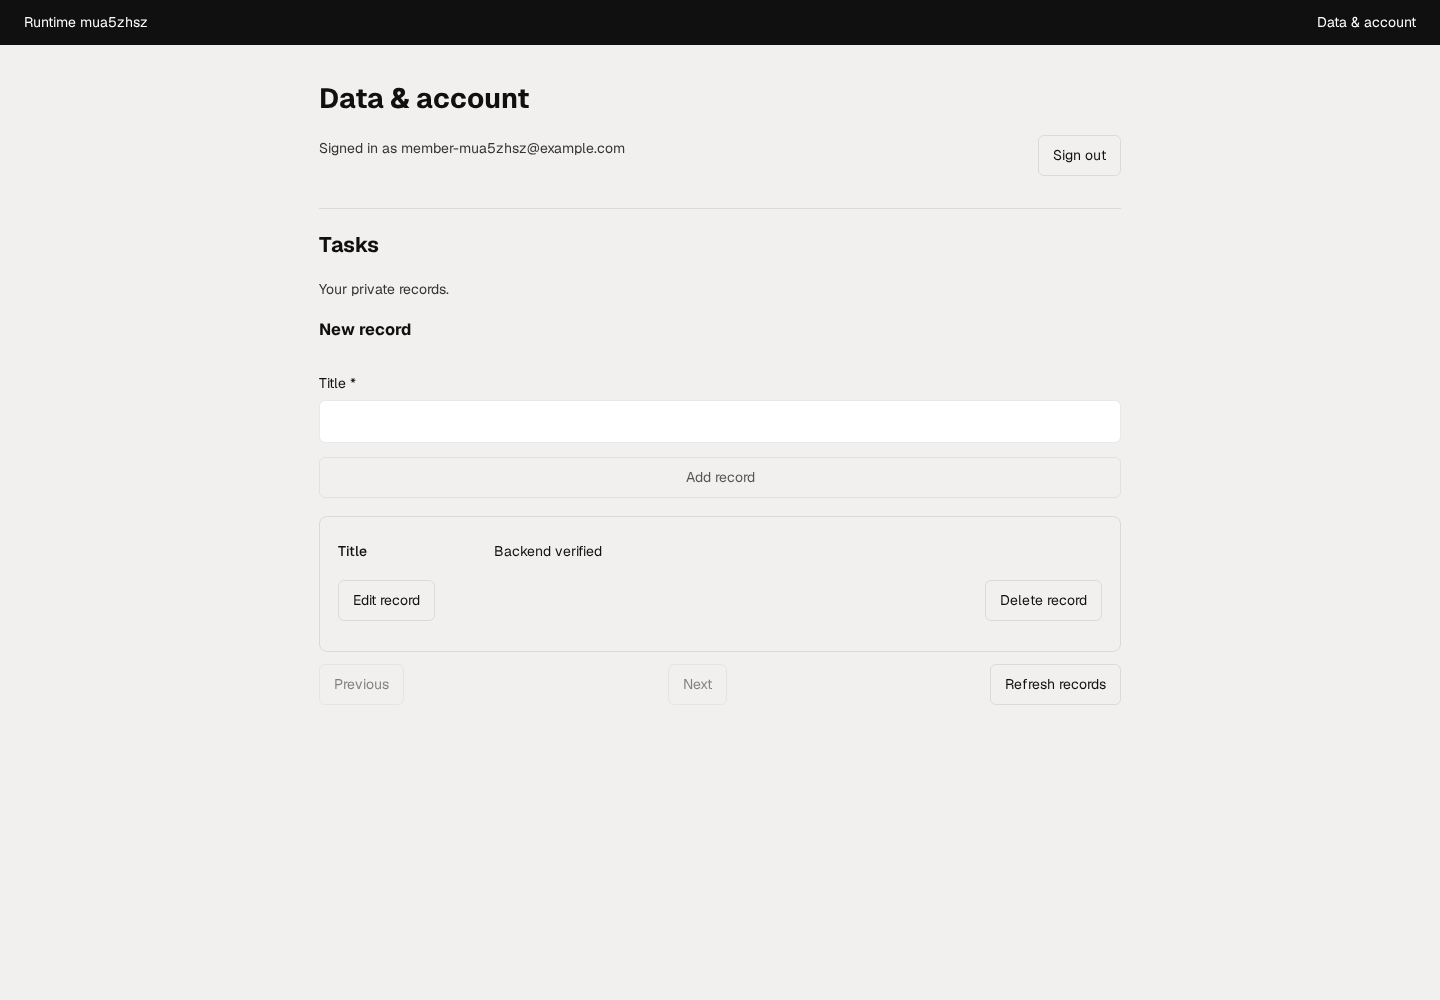
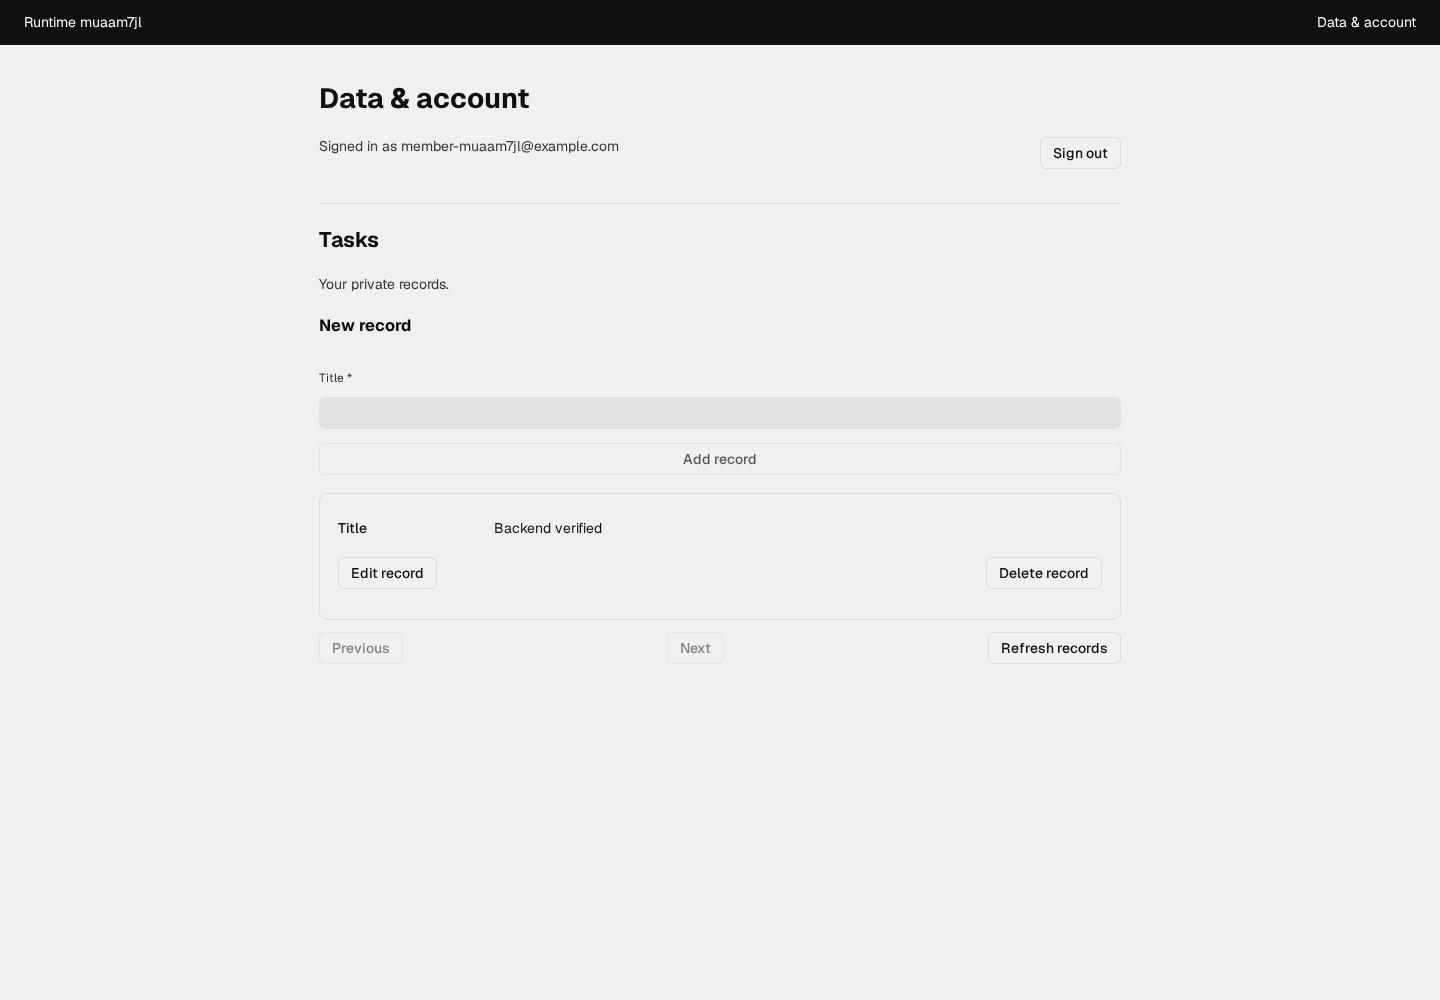
Apply Relume's form system to Settings, dialogs and panels
Section cards sit on the ground colour with a hairline, labels are 12px
over filled 32px fields, status and in-use markers become mono chips, the
selected provider and model take the accent tint, and dialogs get a 12px
radius with 20px titles.

diff --git a/src/style.css b/src/style.css
@@ -3057,3 +3057,181 @@ button {
     inset: -24px 0;
   }
 }
+
+/* Form system, after Relume's site settings: section cards on the ground colour,
+   12px labels over filled 32px fields, mono chips, 20px page titles. */
+.settings-block {
+  border: 1px solid var(--line);
+  border-radius: 8px;
+  background: rgba(241, 240, 238, 0.9);
+  padding: 32px;
+}
+.settings-eyebrow {
+  font-family: var(--mono);
+  font-size: 12px;
+  font-weight: 500;
+  letter-spacing: 0;
+  text-transform: uppercase;
+  color: var(--ink);
+}
+.settings-block-head h2 {
+  font-size: 20px;
+  font-weight: 500;
+  line-height: 28px;
+  letter-spacing: -0.02em;
+}
+.settings-block-head p {
+  font-size: 14px;
+  color: var(--ink-2);
+}
+.settings-state,
+.provider-name em,
+.service-state {
+  font-family: var(--mono);
+  font-size: 11px;
+  font-weight: 500;
+  line-height: 18px;
+  letter-spacing: -0.02em;
+  text-transform: uppercase;
+}
+.settings-state {
+  border: 0;
+  border-radius: 4px;
+  padding: 1px 6px;
+  background: var(--surface);
+  color: var(--ink);
+}
+.settings-state.on {
+  background: #d5f89d;
+}
+.provider-name em {
+  background: #d5f89d;
+  color: var(--ink);
+  padding: 1px 6px;
+}
+.provider-card,
+.service-card {
+  border: 1px solid var(--line);
+  border-radius: 8px;
+  background: transparent;
+  box-shadow: none;
+}
+.provider-card:hover {
+  background: var(--surface);
+}
+.provider-card.selected {
+  border-color: transparent;
+  background: #ffd7ff;
+  box-shadow: none;
+}
+.provider-name,
+.service-name {
+  font-size: 14px;
+  font-weight: 500;
+}
+.provider-desc,
+.service-card p {
+  font-size: 14px;
+  color: var(--ink-2);
+}
+.provider-meta,
+.field-note {
+  font-size: 12px;
+  color: var(--ink-3);
+}
+.settings-field label,
+.modal label,
+.inspector label,
+.style-guide label,
+.backend-form label,
+.backend-panel > label {
+  font-size: 12px;
+  line-height: 18px;
+  font-weight: 400;
+  color: var(--ink-2);
+}
+.field-row input,
+.modal label input,
+.modal label select,
+.modal label textarea,
+.inspector label input,
+.inspector label select,
+.inspector label textarea,
+.backend-form label input:not([type="checkbox"]),
+.backend-form label select,
+.backend-panel > label input {
+  margin-top: 4px;
+  min-height: 32px;
+  padding: 5px 8px;
+  border: 1px solid transparent;
+  border-radius: var(--radius);
+  background: var(--surface);
+  font-size: 14px;
+  line-height: 20px;
+  color: var(--ink);
+}
+.field-row input {
+  margin-top: 0;
+}
+.field-row input:focus-visible,
+.modal label :is(input, select, textarea):focus,
+.inspector label :is(input, select, textarea):focus,
+.backend-form label :is(input, select):focus,
+.backend-panel > label input:focus {
+  border-color: var(--accent);
+  background: var(--bg-raised);
+  outline: none;
+  box-shadow: none;
+}
+.model-list {
+  border: 1px solid var(--line);
+  border-radius: 8px;
+  background: transparent;
+}
+.model-list li button.selected {
+  background: #ffd7ff;
+  color: var(--ink);
+}
+.model-list li button.selected em {
+  color: var(--ink-2);
+}
+.backend-panel {
+  border-radius: 12px;
+  padding: 24px;
+  box-shadow: 0 0 0 1px var(--line), 0 24px 80px rgba(16, 16, 16, 0.2);
+}
+.backend-panel h2 {
+  font-size: 20px;
+  font-weight: 500;
+  line-height: 28px;
+  letter-spacing: -0.02em;
+}
+.backend-panel h3 {
+  font-size: 14px;
+  font-weight: 500;
+}
+.backend-panel p {
+  font-size: 14px;
+}
+.backend-panel button,
+.backend-page button {
+  min-height: 32px;
+  padding: 5px 12px;
+  font-size: 14px;
+  font-weight: 500;
+  line-height: 20px;
+}
+.modal {
+  border-radius: 12px;
+  box-shadow: 0 0 0 1px var(--line), 0 24px 80px rgba(16, 16, 16, 0.2);
+}
+.modal h2 {
+  font-size: 20px;
+  font-weight: 500;
+  line-height: 28px;
+}
+.modal-symbol {
+  padding: 8px;
+  border-radius: 8px;
+  background: #ffd7ff;
+}

diff --git a/CLAUDE.md b/CLAUDE.md
@@ -27,7 +27,7 @@ write it.
 | _(claude subagent J: studio-workshop)_ | `public/templates/studio-workshop/**`, `vendor/templates/studio-workshop/**`, `shared/source-templates-studio-workshop.json`, `tests/browser/studio-workshop.spec.ts`, one import + spread line in `shared/source-templates.mjs`, this row | **done (Fettle), 4 of 4 browser tests green.** Hand drawn workshop and class programme adapted from PaperCSS (ISC, pinned): its irregular border radii and offset shadow rewritten as tokens, its remote Google Fonts import deliberately dropped. Rough.js (MIT) draws the rules, frames, callout, tools, floor plan and chart ONCE at build time into seeded static SVG; the eleven people are Open Peeps (CC0) rendered from react-peeps (MIT) at build time. Bricolage Grotesque (OFL) bundled locally. 6 pages, programme filtered by level and evening together with a live count of sessions and benches free. No photography, no remote requests. |
 | _(claude subagent K: cloudcannon collection)_ | `public/templates/cloudcannon-*/**`, `vendor/templates/cloudcannon-*/**`, `shared/source-templates-cloudcannon.json`, `tests/browser/cloudcannon-collection.spec.ts`, one import + spread line in `shared/source-templates.mjs`, a tab plus its context paragraph in `src/SourceTemplateCatalogue.tsx`, a section at the end of `docs/SOURCE-TEMPLATES.md`, this row | **done, 5 of 5 browser tests green.** Imported the CloudCannon MIT line as a whole collection (new "Publisher library" tab): Jetstream and Sendit (Astro) plus Hydra, Urban, Frisco, Justice, Treat, Edition, Cause and Author (Jekyll, built with a local GEM_HOME since only system Ruby 2.6 exists). Aperture rejected, it is a photography grid. **Every bundled photograph is deleted, not carried through**: the Unsplash Licence bars redistributing photos as a collection, so image slots hold placeholder artwork drawn in code at the original pixel sizes. Also stripped Google Fonts, CDN jQuery, Analytics, Disqus, Maps, Donorbox, Mailchimp, Vimeo, YouTube and CodePen; forms blocked; demo note on every page. Note for the continuation session: I added one tab entry and one paragraph to `SourceTemplateCatalogue.tsx`, nothing else in that file. |
 | _(claude subagent L: studio-explain)_ | `public/templates/studio-explain/**`, `vendor/templates/studio-explain/**`, `shared/source-templates-studio-explain.json`, `tests/browser/studio-explain.spec.ts`, one import + spread line in `shared/source-templates.mjs`, this row | **done (Threshold), 8 of 8 browser tests green.** Explorable explanation adapted from ncase/trust (CC0, commit 6ec45d73: chaptered scroll, one widget per step, plus two of its CC0 drawings reused as the queue, no audio because its effects are mixed licence) and roadtolarissa (MIT, commit 3e28b8aa: newsprint ground, 750px measure, charts drawn as SVG from the data, hand drawn annotation arrow, scroll driven chart state). Five pages. Two hand written SVG + plain JS figures, no chart library: a load slider over a drawn curve and a 12 slot morning you step through, both keyboard operable, both announcing state, both with a visible summary sentence. Every number lives in `model.js`, which `tools/build-pages.mjs` also reads, so the drawings, readouts and the numbers written into the prose cannot drift. Reduced motion switches off all scroll driving and both figures still work. Fraunces + Newsreader (OFL) bundled. |
-| _(claude: relume-style UI revamp, 2026-09-20)_ | `src/style.css`, `src/app-workspace.css`, `src/catalogue.css`, the other `src/*.css` app-chrome sheets, `DESIGN.md`, this row, the `<aside className="sidebar">` block and the signed-out account dialog in `src/App.tsx`, `src/AccountForm.tsx` (markup only, no auth logic), the header and tool rail markup in `src/Editor.tsx` | **first pass done 2026-09-20.** App chrome rethemed to tokens measured live from relume.ai (see DESIGN.md): every one-off gray and lilac in these sheets now resolves to a custom property in the `:root` block at the top of `src/style.css`, so restyle through the tokens, not with new hex values. Dashboard, catalogue, settings and editor checked by screenshot; 7 layout specs green. **Sidebar rebuilt 2026-09-20** to the measured Relume `/sites` sidebar (switcher, accent Create project, search bound to the project search, pill nav, one line account footer). `cloud.spec.ts` reads "Server saving enabled" from screen-reader text in that footer, keep it. **Sign in and sign up card rebuilt 2026-09-21** to Relume's login: `AccountForm` is a 300px `auth-card` (fields named by `aria-label`, so the specs' `getByLabel` still works) and the signed-out account dialog is a full page `auth-panel` with a hairline `auth-frame`. Members of published apps keep the dark submit, owners get the accent. **Dashboard header removed and cards rebuilt 2026-09-21** to the measured `/sites` cards: the shared account chip moved to the sidebar footer, project and catalogue cards are a hairline frame around a sunken well holding a white 12px tile, with a 34px footer row. The project preview scales from its container width (`scale: tan(atan2(100cqw, 1000px))`), so do not add fixed `transform: scale()` overrides to `.mini-site`. **Editor chrome rebuilt 2026-09-21** to the measured Relume site editor: 48px bar, icon tabs in a pill, Preview and Site settings as square icon buttons that keep those accessible names, accent Export, a 46px rail of hairline tiles, 281px inspector with tinted active rows. Not yet hand-tuned: backend panels, account and payment dialogs, native template editor. The signed-in Relume app was not inspected (Cloudflare human check on its login) |
+| _(claude: relume-style UI revamp, 2026-09-20)_ | `src/style.css`, `src/app-workspace.css`, `src/catalogue.css`, the other `src/*.css` app-chrome sheets, `DESIGN.md`, this row, the `<aside className="sidebar">` block and the signed-out account dialog in `src/App.tsx`, `src/AccountForm.tsx` (markup only, no auth logic), the header and tool rail markup in `src/Editor.tsx` | **first pass done 2026-09-20.** App chrome rethemed to tokens measured live from relume.ai (see DESIGN.md): every one-off gray and lilac in these sheets now resolves to a custom property in the `:root` block at the top of `src/style.css`, so restyle through the tokens, not with new hex values. Dashboard, catalogue, settings and editor checked by screenshot; 7 layout specs green. **Sidebar rebuilt 2026-09-20** to the measured Relume `/sites` sidebar (switcher, accent Create project, search bound to the project search, pill nav, one line account footer). `cloud.spec.ts` reads "Server saving enabled" from screen-reader text in that footer, keep it. **Sign in and sign up card rebuilt 2026-09-21** to Relume's login: `AccountForm` is a 300px `auth-card` (fields named by `aria-label`, so the specs' `getByLabel` still works) and the signed-out account dialog is a full page `auth-panel` with a hairline `auth-frame`. Members of published apps keep the dark submit, owners get the accent. **Dashboard header removed and cards rebuilt 2026-09-21** to the measured `/sites` cards: the shared account chip moved to the sidebar footer, project and catalogue cards are a hairline frame around a sunken well holding a white 12px tile, with a 34px footer row. The project preview scales from its container width (`scale: tan(atan2(100cqw, 1000px))`), so do not add fixed `transform: scale()` overrides to `.mini-site`. **Editor chrome rebuilt 2026-09-21** to the measured Relume site editor: 48px bar, icon tabs in a pill, Preview and Site settings as square icon buttons that keep those accessible names, accent Export, a 46px rail of hairline tiles, 281px inspector with tinted active rows. **Form system applied 2026-09-21** after Relume's site settings page (block at the end of `src/style.css`): Settings, dialogs, inspector and backend panel share 12px labels over filled 32px fields, ground colour section cards, mono chips and a tinted selected state. Not yet looked at by screenshot: the signed-in backend panel tabs, the payment prompt, the native template editor. The signed-in Relume app was not inspected (Cloudflare human check on its login) |
 | _(codex, paused)_ | everything, historically | stopped mid-typography on 2026-09-17 02:55. If resumed after the limit resets, it auto-continues its goal: read `git log` first |
 
 ## Rules

diff --git a/DESIGN.md b/DESIGN.md
@@ -21,7 +21,7 @@ Measured from the live relume.ai DOM on 2026-09-20 (computed styles and its `:ro
 - Lines: `rgba(27,25,25,.1)` hairline. States: hover `rgba(22,22,22,.08)`, surface `.06`, press `.12`.
 - Accent: #ff00f4, hover #ff29f6, tints #ffcfff and #ff9fff, subtle `rgba(255,223,255,.5)`, text-safe #cf00c0.
 - Controls: 32px high, 6px radius, 14px weight 400 labels. Primary is solid accent with white text, secondary is transparent with a hairline, fields are filled with the surface tint and turn white with an accent border on focus. Composer and dialogs use a 16px radius; tab groups are a #e4e2df pill with a white active segment.
-Sidebar, measured from the signed-in `/sites` page on 2026-09-20 (the owner passed the login's human check in a visible window): 272px wide on `rgba(241,240,238,.9)` with a hairline right edge, 8px section padding, a 40px switcher with an inset hairline and an 8px radius, a #d5f89d 11px/500 chip, a full-width 32px accent create button, a 30px filled search, 32px nav rows at 14px/500 with an 8px radius, 4px apart, selected #ffd7ff, count chips on the surface tint with a 4px radius, and a footer above a hairline holding a 24px initials square, the name and a plan chip. Login card, from `/app/login`: a 348px frame of white hairlines that run past the corners and fade, a 5px white square on each corner, 24px side padding around a 300px column, a 24px/440 heading, 32px filled fields with placeholder labels and an eye toggle, a full-width accent submit and 12px/500 links with a dotted accent underline. Page and cards, from `/sites`: no top bar, main padding 48px 32px 24px, a 20px/500 section title with 12px below it, a three column grid 16px apart. A card is an 8px radius hairline frame with 1px padding on the ground color, a #ecebe9 well with 8px padding and 8px gaps holding white tiles with a 12px radius, then a 34px footer (padding 4px 4px 4px 8px) with a 20px white icon chip, a 14px/500 name, 12px meta in #343434 and 26px icon buttons. Hover only strengthens the border. Editor chrome, from `/app/site/...`: a 48px top bar on `rgba(241,240,238,.9)` with 8px side padding and a hairline below, laid out as three columns so the tabs sit dead centre; a 32px back button, a 14px/500 name; tabs in a #e4e2df pill with 26px segments, 12px side padding, a 16px icon and a 14px/500 label, the active one white; on the right 32px controls 6px apart, text buttons with a hairline, square icon buttons, and one accent action. The rail is 46px wide with 8px padding and 32px hairline tiles 8px apart; the side panel is 281px. Only the empty Brief view was reachable, the canvas views are not yet inspected. App-generated shells (`app-workspace.css`, `app-overview-layout.css`) keep their own theme variables and are not part of this theme.
+Sidebar, measured from the signed-in `/sites` page on 2026-09-20 (the owner passed the login's human check in a visible window): 272px wide on `rgba(241,240,238,.9)` with a hairline right edge, 8px section padding, a 40px switcher with an inset hairline and an 8px radius, a #d5f89d 11px/500 chip, a full-width 32px accent create button, a 30px filled search, 32px nav rows at 14px/500 with an 8px radius, 4px apart, selected #ffd7ff, count chips on the surface tint with a 4px radius, and a footer above a hairline holding a 24px initials square, the name and a plan chip. Login card, from `/app/login`: a 348px frame of white hairlines that run past the corners and fade, a 5px white square on each corner, 24px side padding around a 300px column, a 24px/440 heading, 32px filled fields with placeholder labels and an eye toggle, a full-width accent submit and 12px/500 links with a dotted accent underline. Page and cards, from `/sites`: no top bar, main padding 48px 32px 24px, a 20px/500 section title with 12px below it, a three column grid 16px apart. A card is an 8px radius hairline frame with 1px padding on the ground color, a #ecebe9 well with 8px padding and 8px gaps holding white tiles with a 12px radius, then a 34px footer (padding 4px 4px 4px 8px) with a 20px white icon chip, a 14px/500 name, 12px meta in #343434 and 26px icon buttons. Hover only strengthens the border. Editor chrome, from `/app/site/...`: a 48px top bar on `rgba(241,240,238,.9)` with 8px side padding and a hairline below, laid out as three columns so the tabs sit dead centre; a 32px back button, a 14px/500 name; tabs in a #e4e2df pill with 26px segments, 12px side padding, a 16px icon and a 14px/500 label, the active one white; on the right 32px controls 6px apart, text buttons with a hairline, square icon buttons, and one accent action. The rail is 46px wide with 8px padding and 32px hairline tiles 8px apart; the side panel is 281px. Forms, from the site settings page: a 20px/500 page title, section cards with an 8px radius, a hairline, the ground colour and 32px padding, a 14px/500 card title, 12px/400 #343434 labels 4px above 32px fields filled with the surface tint, chips in 11px/500 uppercase mono on the surface tint with a 4px radius, group labels in 12px/500 uppercase mono. Only the empty Brief view was reachable, the canvas views are not yet inspected. App-generated shells (`app-workspace.css`, `app-overview-layout.css`) keep their own theme variables and are not part of this theme.
 
 ## Components
 Dashboard: workspace navigation, brief composer, project cards with genuine miniature previews, search and template starters. Editor: project header, Sitemap / Wireframes / Style guide / Design tabs, draggable page nodes and edges, property inspector, zoom controls, responsive preview and export.
